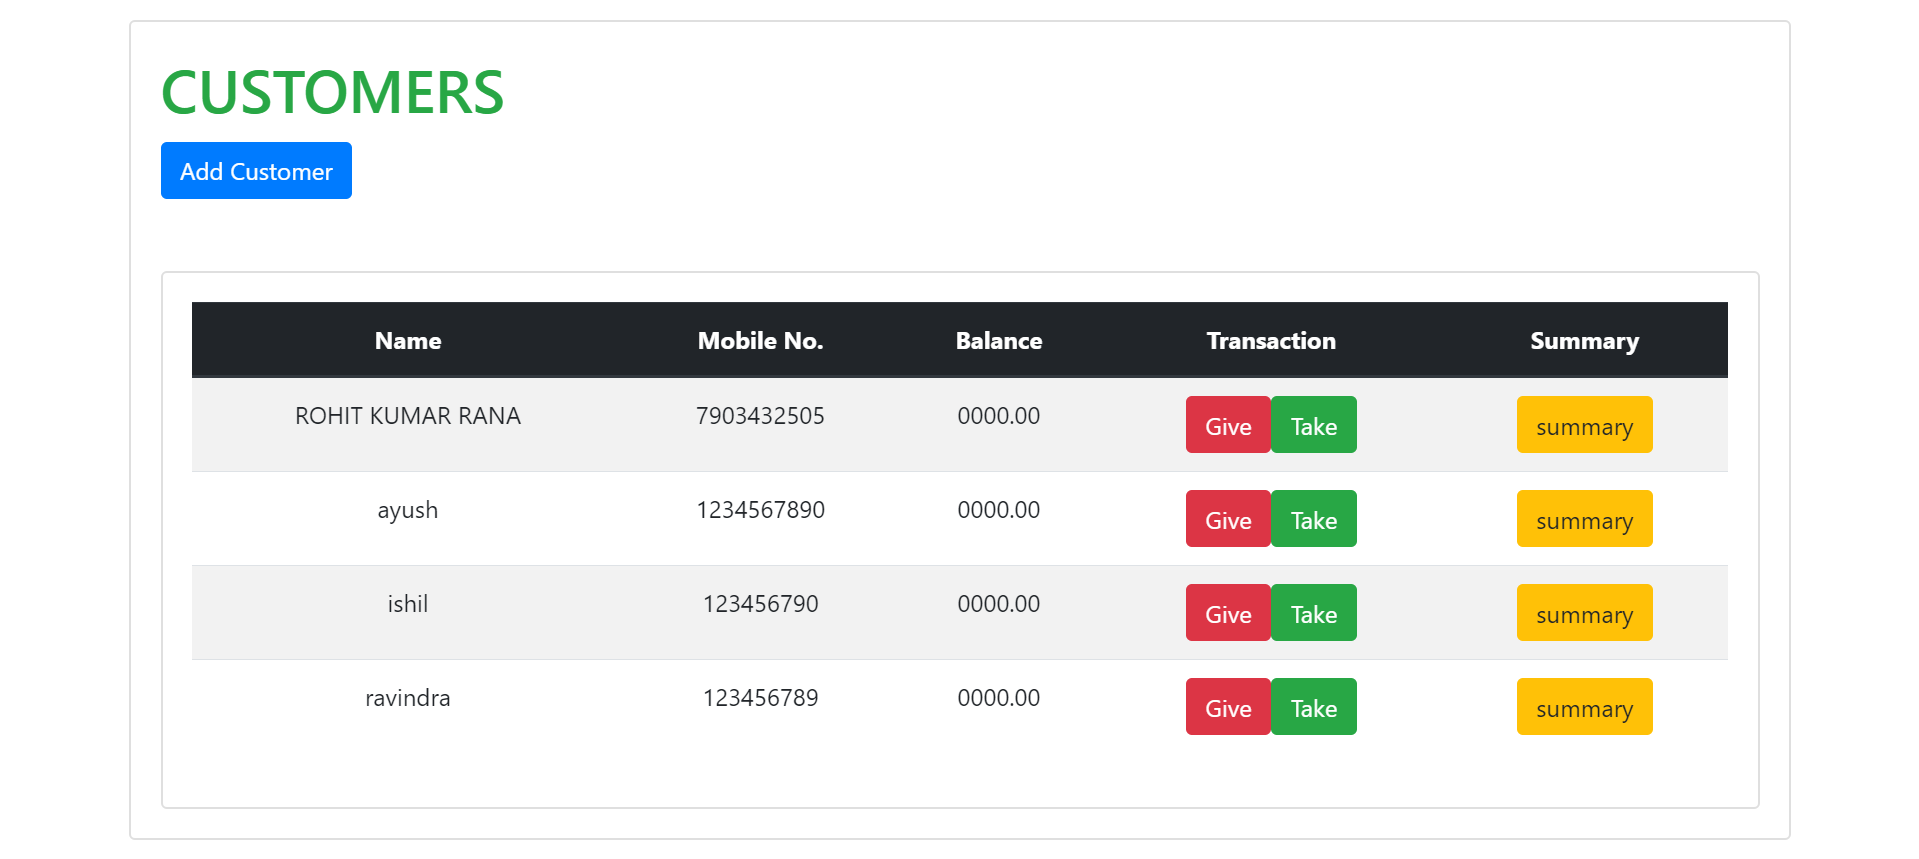
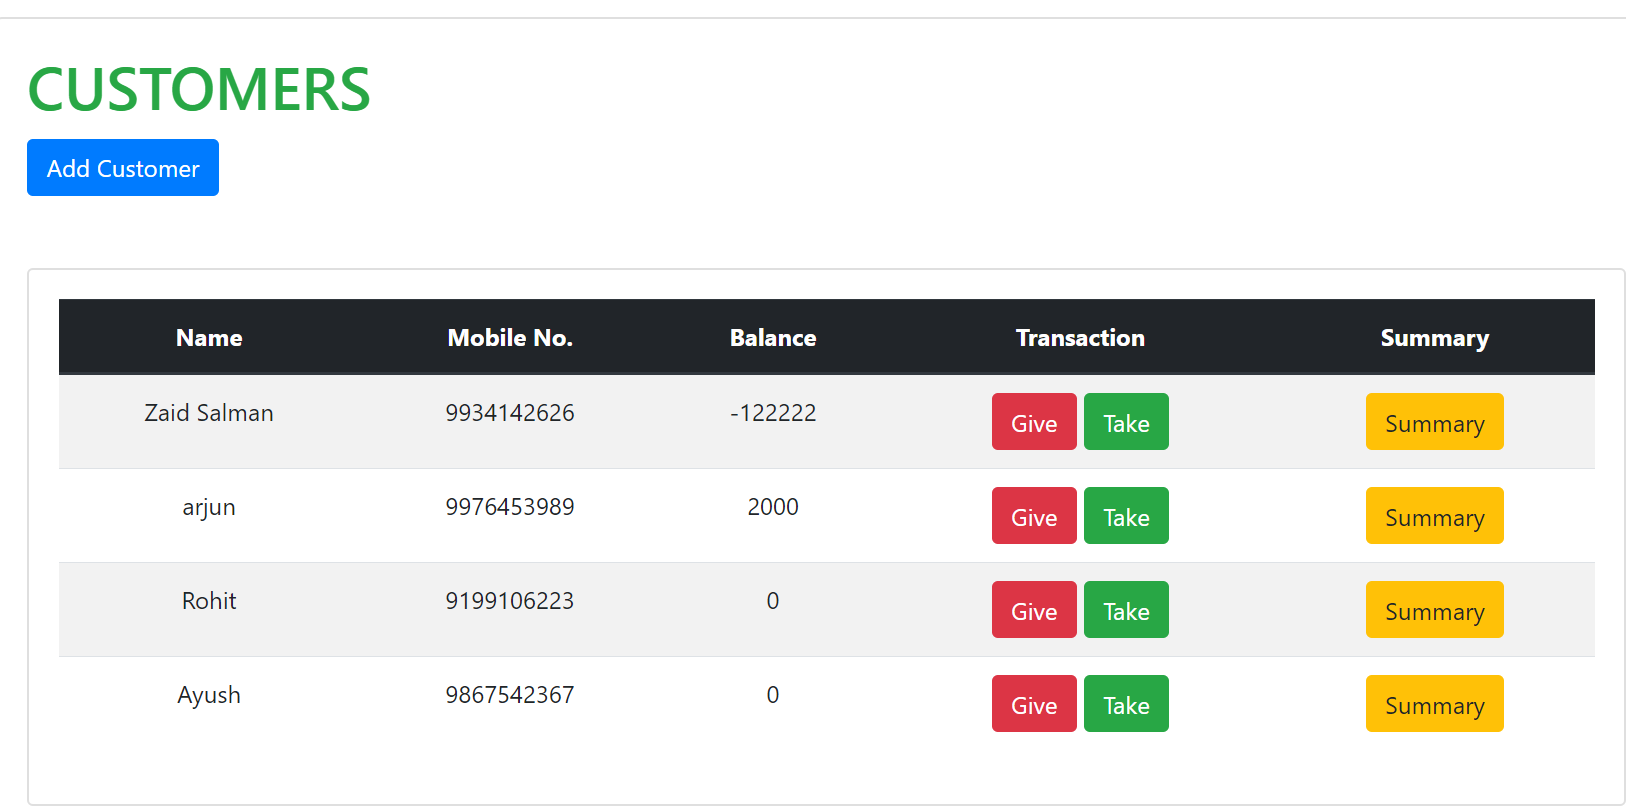
changes in UI

diff --git a/public/index.html b/public/index.html
@@ -111,8 +111,8 @@
         </div>
         <div class="container mb-5">
             <div class="row">
-                <div class="col-6 customer-banner"> <img src="./img/customers.png" class="img-fluid" alt=""></div>
-                <div class="col-6 d-flex justify-content-center align-items-center">
+                <div class="col-12 col-md-6 customer-banner"> <img src="./img/customers.png" class="img-fluid" alt=""></div>
+                <div class="col-12 col-md-6 d-flex justify-content-center align-items-center">
                     <div>
                         <h1>Easy to manage customers</h1>
                         <ul>
@@ -123,6 +123,23 @@
                 </div>
             </div>
         </div>
+
+        <div class="container my-5">
+            <div class="row">
+                <div class="col-12 col-md-6 d-flex justify-content-center align-items-center">
+                    <div>
+                        <h1>Easy to manage transactions</h1>
+                        <ul>
+                            <li>Get detail of every transaction</li>
+                            <li>Edit any transaction at any time</li>
+                        </ul>
+                    </div>
+                </div>
+                <div class="col-12 col-md-6 customer-banner"> <img src="./img/transactions.png" class="img-fluid" alt=""></div>
+            </div>
+        </div>
+
+        
     </script>
 
     <!-- Profile View Template -->
@@ -449,7 +466,15 @@
     <script type="text/template" id="customer-template">
         <td><%= model.get('customer_name') %></td>
         <td><%= model.get('mobile_number') %></td>
-        <td><%= model.get('balance') %></td>
+        <td>
+            <% if(model.get('balance') < 0){ %>
+            <%= model.get('balance') %> <i class="fas fa-arrow-up text-danger"></i>
+            <% }else if(model.get('balance') > 0){%>
+            <%= model.get('balance') %> <i class="fas fa-arrow-down text-success"><i>  
+            <%}else{%>
+            <%= model.get('balance')%>
+            <%}%>      
+        </td>
         <td>
             <button type="button" class="btn btn-danger" id="give">Give</button>
             <button type="button" class="btn btn-success" id="take">Take</button>
@@ -581,7 +606,11 @@
         <div class="card mb-3">
             <div class="row no-gutters ">
                 <div class="col-md-2">
+                    <% if (model.get('amount') >= 0){ %>
                     <img src="img/take.png" class="card-img" alt="...">
+                    <%}else{%>
+                    <img src="img/give.png" class="card-img" alt="..."> 
+                    <%}%>  
                 </div>
                     <div class="col-md-10">
                         <div class="card-body">

diff --git a/public/js/views/transaction_view.js b/public/js/views/transaction_view.js
@@ -1,5 +1,5 @@
 var TransactionView = Backbone.View.extend({
-    className : "transaction-box",
+    className: "transaction-box",
     model: TransactionModel,
     collection: customer_collection,
     template: _.template($('#transaction-template').html()),
@@ -8,22 +8,33 @@ var TransactionView = Backbone.View.extend({
     },
     events: {
         "click #edit": "editTransaction",
-        "click #delete":"deleteTransaction"
+        "click #delete": "deleteTransaction"
     },
-    deleteTransaction: async function(){
+    deleteTransaction: async function () {
         const id = this.model.get('transaction_id')
-        this.model.set({transaction_id : id})
-        //console.log(data)
-        var self = this;
-        this.model.save(null,{
-            url:"http://localhost:3060/users/customers/transactions/"+this.model.get('transaction_id'),
-            headers: { 'auth-token': localStorage.getItem('khata-token') },
-            success: async function (response) {
-                alert(`${response.get('message')}\nRs.${response.get('amount')}\nDeleted`)
-            },
-            error: function (error, response) {
-                console.log(response);
+        this.model.set({ transaction_id: id })
+
+        const self = this
+        $('#delete-confirmation').simpleConfirm({
+            message: "Are you sure?",
+            success: function () {
+
+
+                self.model.save(null, {
+                    url: "http://localhost:3060/users/customers/transactions/" + self.model.get('transaction_id'),
+                    headers: { 'auth-token': localStorage.getItem('khata-token') },
+                    success: async function (response) {
+                        console.log("hello")
+                    },
+                    error: function (error, response) {
+                        console.log(response);
+                    }
+                })
+
+                self.remove();
+
             }
+
         })
     },
     editTransaction: function () {

diff --git a/v1/entity_builders/transaction_builder.js b/v1/entity_builders/transaction_builder.js
@@ -1,17 +1,17 @@
 const utility = require("../../core/utility_functions")
 
-module.exports = TransactionBuilder = function (req_data){
+module.exports = TransactionBuilder = function (req_data) {
     this.req_data = req_data
 }
 
-TransactionBuilder.prototype.buildTransactionList = function (entity){
+TransactionBuilder.prototype.buildTransactionList = function (entity) {
     const res_data = []
-    for(entry of entity){
+    for (entry of entity) {
         let entry_obj = {
-            transaction_id : entry.transaction_id,
-            message : entry.message
+            transaction_id: entry.transaction_id,
+            message: entry.message
         }
-        if(entry.transaction_type === "take"){
+        if (entry.transaction_type === "give") {
             entry_obj.amount = (-1 * entry.amount)
         } else {
             entry_obj.amount = entry.amount
@@ -21,16 +21,16 @@ TransactionBuilder.prototype.buildTransactionList = function (entity){
     return res_data
 }
 
-TransactionBuilder.prototype.buildCreateEntry = async function (entity){
+TransactionBuilder.prototype.buildCreateEntry = async function (entity) {
     const balance = await utility.getBalance(entity.user_id, entity.customer_id)
-    return {balance}
+    return { balance }
 }
 
-TransactionBuilder.prototype.buildBalance = function (balance) { 
-    return {balance}
+TransactionBuilder.prototype.buildBalance = function (balance) {
+    return { balance }
 }
 
-TransactionBuilder.prototype.buildDelete = async function (entity){
-    const {message, amount } = entity;
+TransactionBuilder.prototype.buildDelete = async function (entity) {
+    const { message, amount } = entity;
     return { message, amount };
 }

diff --git a/core/utility_functions.js b/core/utility_functions.js
@@ -23,10 +23,10 @@ exports.getBalance = async function (user_id, customer_id) {
     var balance = 0
     for (let entry of transactions) {
         if (entry.transaction_type === "take") {
-            balance += (-1 * entry.amount)
+            balance += entry.amount
         }
         else if (entry.transaction_type === "give") {
-            balance += entry.amount
+            balance += (-1 * entry.amount)
         }
     }
     return balance
